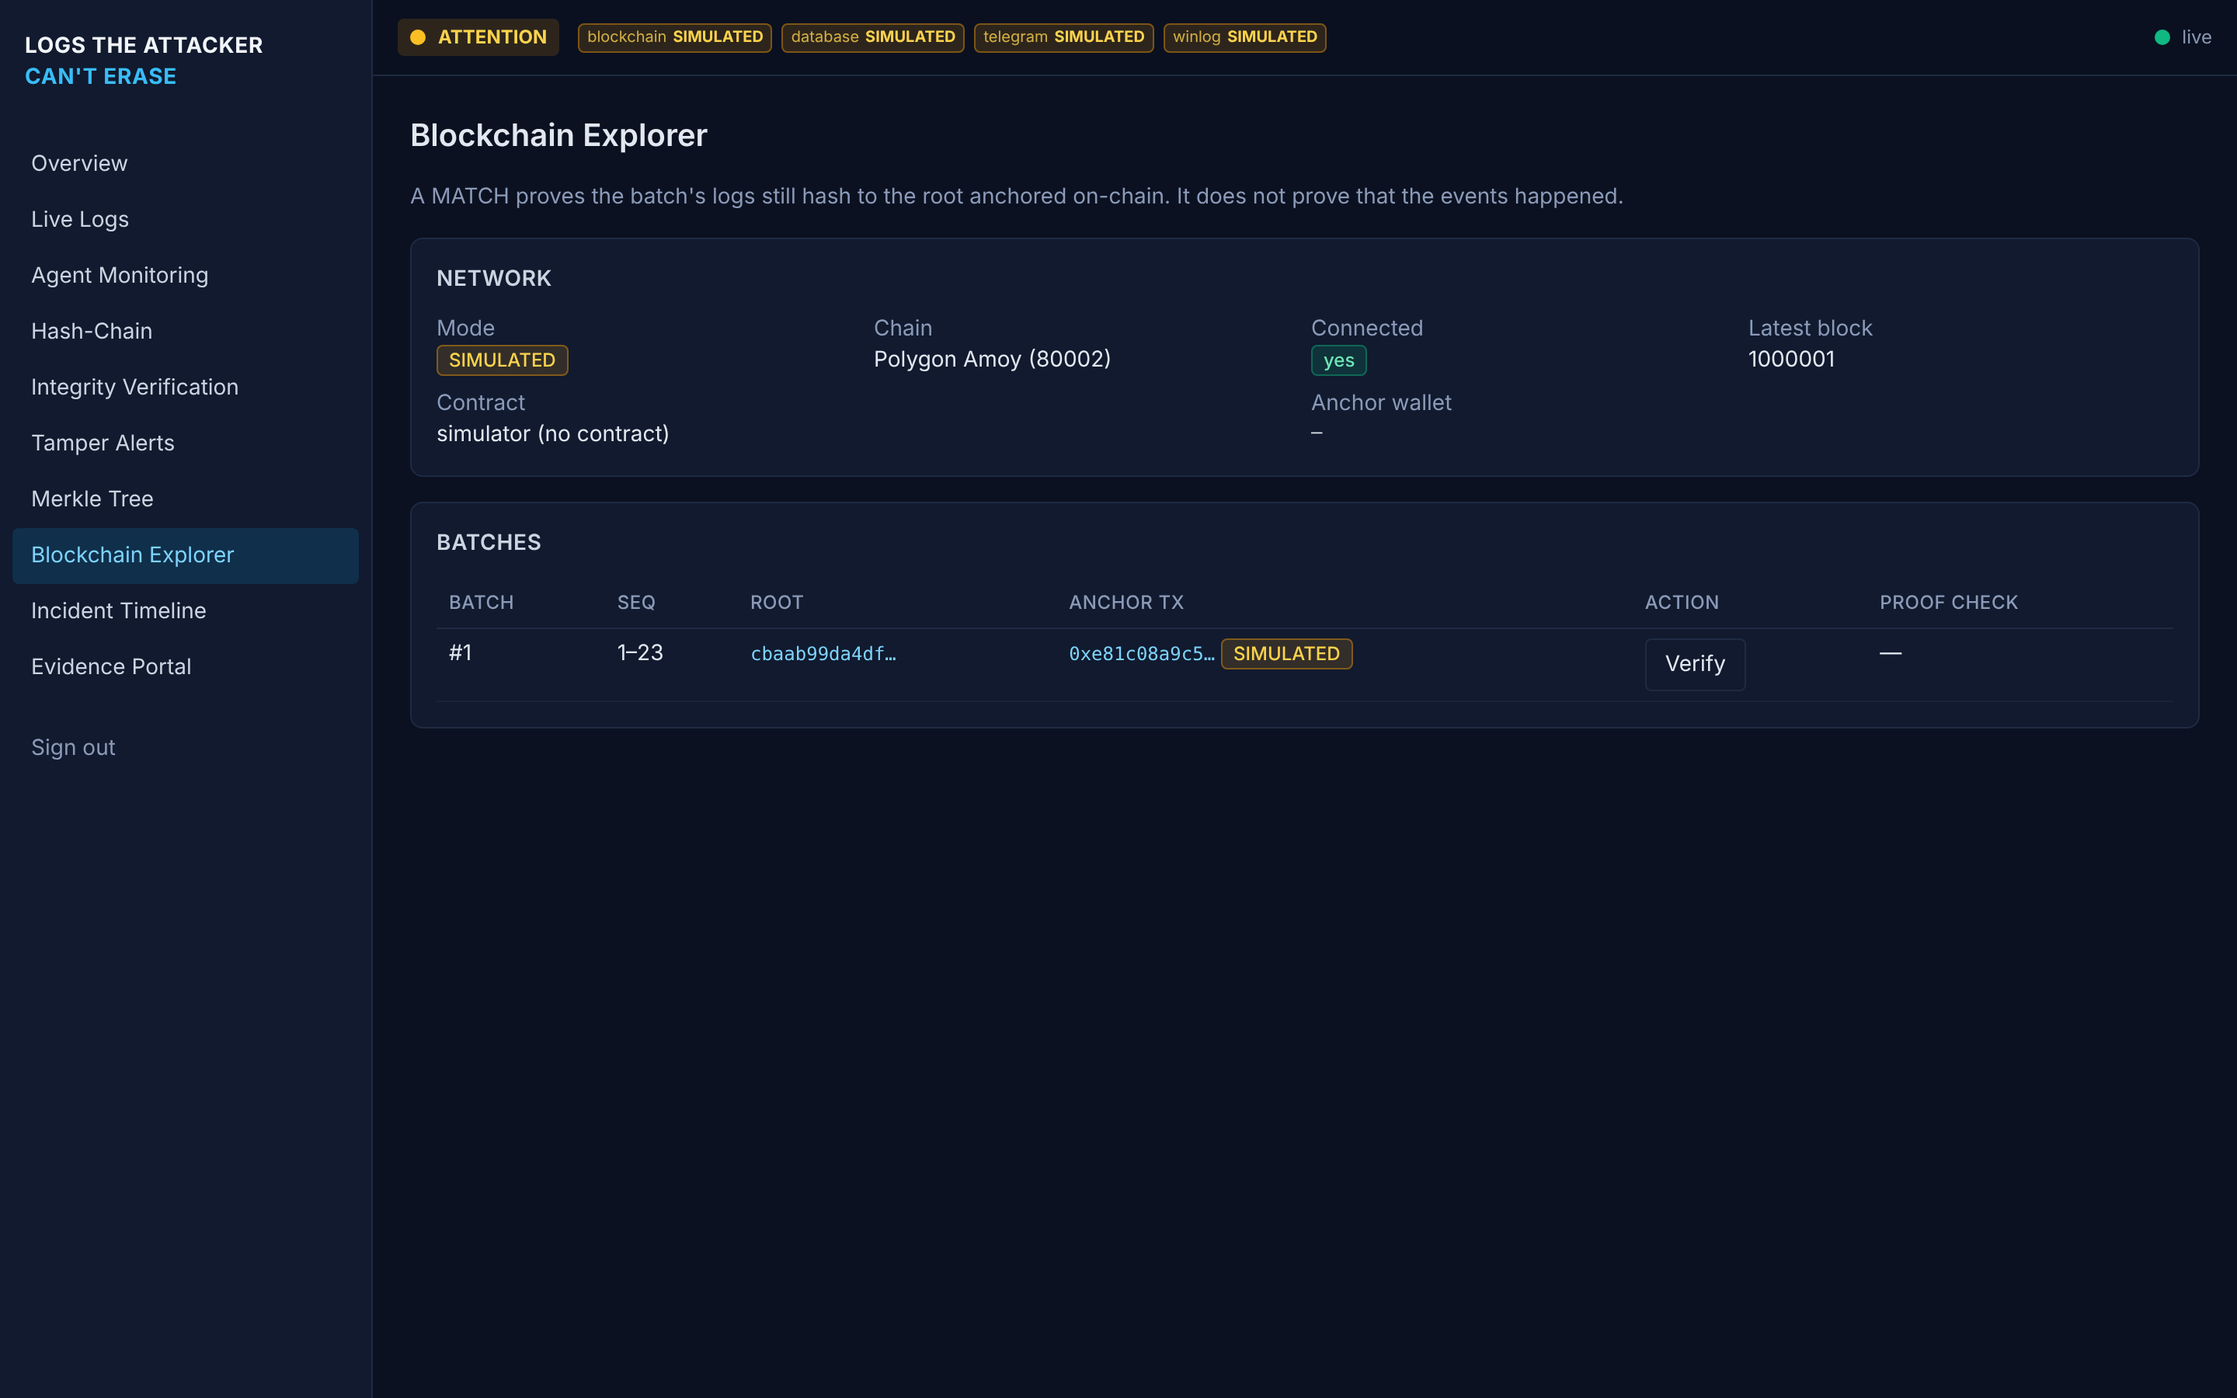
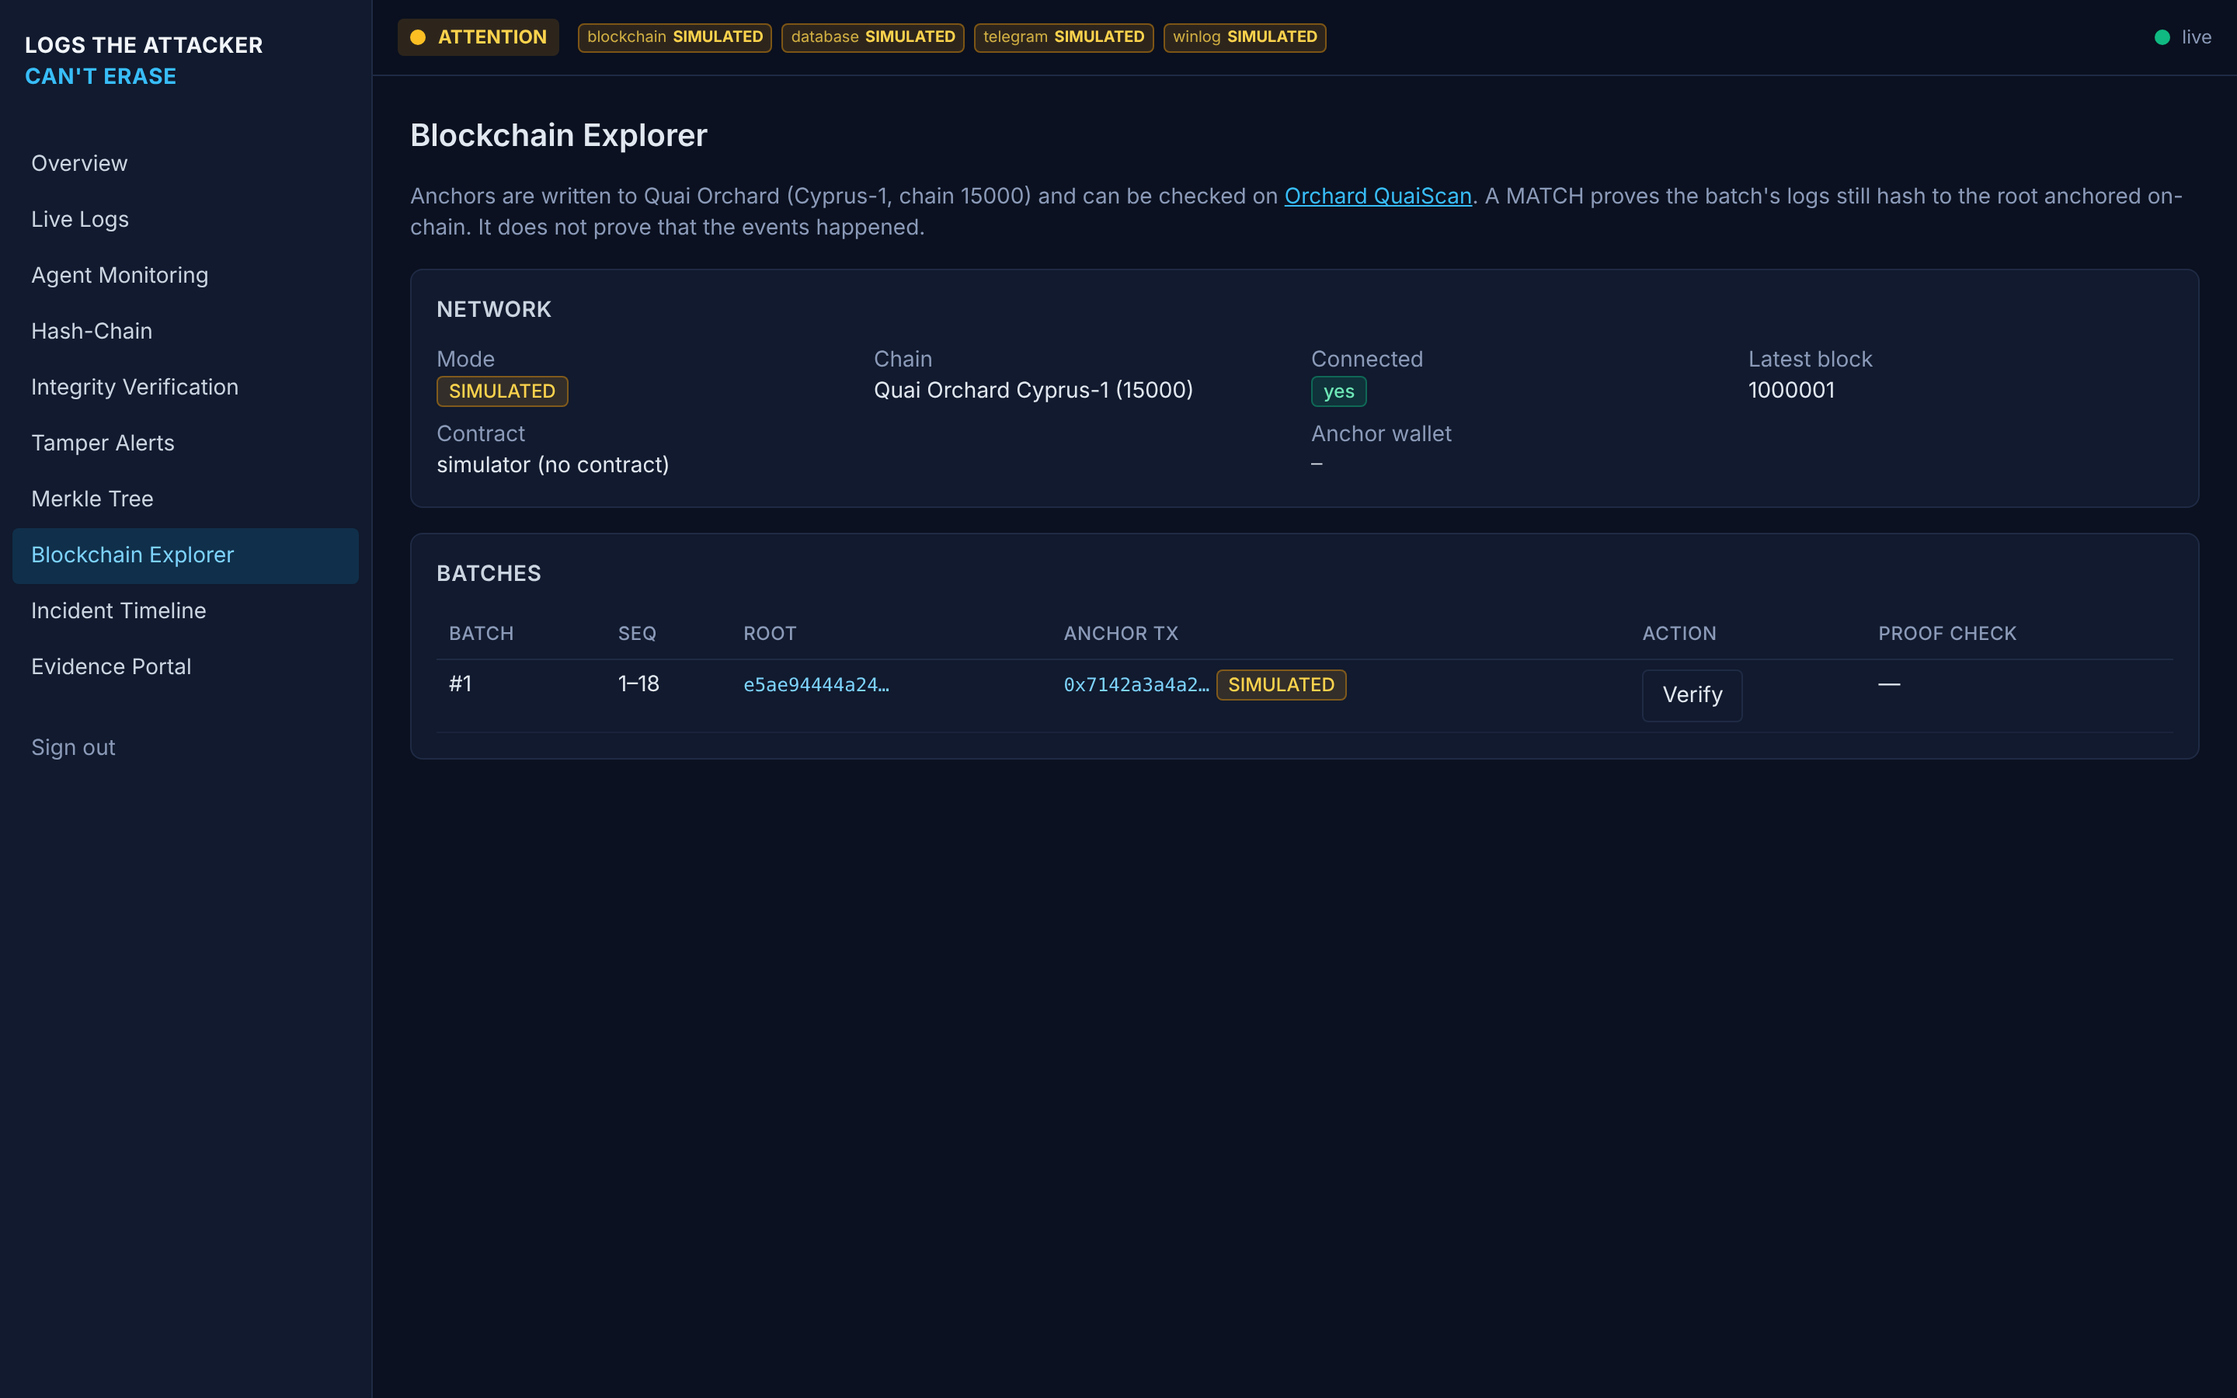
feat(quai step10): dashboard Quai labels, Orchard QuaiScan links, 'Quai Orchard (REAL)' badge
- src/lib/quai.ts: chain names, orchard.quaiscan.io / quaiscan.io tx + address links, badge label
- Blockchain/Overview/Evidence pages use them; no Polygon references remain
- fix: simulator-anchored batches are never linked to the explorer after switching to REAL mode
- screenshots refreshed (Polygon-era live-run set removed)

Claude-Session: https://claude.ai/code/session_015RNb6FucVTb6q4B85cYiCy

diff --git a/frontend/src/app/(dash)/blockchain/page.tsx b/frontend/src/app/(dash)/blockchain/page.tsx
@@ -5,8 +5,7 @@ import { post } from "@/lib/api";
 import { useApi, useLive } from "@/lib/hooks";
 import type { BlockchainStatus, MerkleBatchSummary, ProofVerify } from "@/lib/types";
 import { Card, Empty, ErrorState, Hash, Loading, Pill } from "@/components/ui";
-
-const AMOY = 80002;
+import { blockchainBadgeLabel, chainName, explorerAddress, explorerTx } from "@/lib/quai";
 
 export default function BlockchainPage() {
   const live = useLive();
@@ -16,22 +15,28 @@ export default function BlockchainPage() {
   const [busy, setBusy] = useState<number | null>(null);
   const [err, setErr] = useState<string | null>(null);
   const s = status.data;
-  const txLink = (tx: string | null) => (tx && s?.mode === "REAL" && s.chain_id === AMOY ? `https://amoy.polygonscan.com/tx/${tx}` : null);
+  // Explorer links only for anchors that were themselves REAL: a batch anchored earlier by the simulator keeps
+  // its fake tx hash even after switching to REAL mode, and must never be linked to the explorer.
+  const txLink = (tx: string | null, anchorMode: string | null) =>
+    (anchorMode === "REAL" && s ? explorerTx(s.chain_id, tx) : null);
 
   return (
     <div className="space-y-4">
       <h1 className="text-xl font-semibold">Blockchain Explorer</h1>
-      <p className="text-sm text-soc-muted">A MATCH proves the batch&apos;s logs still hash to the root anchored on-chain. It does not prove that the events happened.</p>
+      <p className="text-sm text-soc-muted">Anchors are written to Quai Orchard (Cyprus-1, chain 15000) and can be checked on{" "}
+        <a className="text-sky-400 underline" href="https://orchard.quaiscan.io" target="_blank" rel="noreferrer">Orchard QuaiScan</a>.
+        A MATCH proves the batch&apos;s logs still hash to the root anchored on-chain. It does not prove that the events happened.</p>
       {err && <ErrorState message={err} />}
       <Card title="Network">
         {status.error ? <ErrorState message={status.error} onRetry={status.reload} /> : !s ? <Loading /> : (
           <dl className="grid grid-cols-2 gap-2 text-sm sm:grid-cols-4">
-            <div><dt className="text-soc-muted">Mode</dt><dd><Pill value={s.mode} /></dd></div>
-            <div><dt className="text-soc-muted">Chain</dt><dd>{s.chain_id === AMOY ? "Polygon Amoy (80002)" : s.chain_id}</dd></div>
+            <div><dt className="text-soc-muted">Mode</dt><dd data-testid="chain-mode"><Pill value={s.mode} label={blockchainBadgeLabel(s.mode, s.chain_id)} /></dd></div>
+            <div><dt className="text-soc-muted">Chain</dt><dd data-testid="chain-name">{chainName(s.chain_id)}</dd></div>
             <div><dt className="text-soc-muted">Connected</dt><dd><Pill value={s.connected ? "online" : "offline"} label={s.connected ? "yes" : "no"} /></dd></div>
             <div><dt className="text-soc-muted">Latest block</dt><dd>{s.latest_block ?? "—"}</dd></div>
             <div className="col-span-2"><dt className="text-soc-muted">Contract</dt><dd>{s.contract_address ? (
-              s.chain_id === AMOY ? <a className="font-mono text-xs text-sky-400 underline" target="_blank" rel="noreferrer" href={`https://amoy.polygonscan.com/address/${s.contract_address}`}>{s.contract_address}</a>
+              explorerAddress(s.chain_id, s.contract_address)
+                ? <a className="font-mono text-xs text-sky-400 underline" target="_blank" rel="noreferrer" href={explorerAddress(s.chain_id, s.contract_address)!}>{s.contract_address} ↗</a>
                 : <code className="font-mono text-xs">{s.contract_address}</code>) : "simulator (no contract)"}</dd></div>
             <div className="col-span-2"><dt className="text-soc-muted">Anchor wallet</dt><dd className="font-mono text-xs">{s.anchor_wallet ?? "—"}</dd></div>
           </dl>
@@ -45,7 +50,7 @@ export default function BlockchainPage() {
               <thead><tr><th>Batch</th><th>Seq</th><th>Root</th><th>Anchor tx</th><th>Action</th><th>Proof check</th></tr></thead>
               <tbody>{batches.data.items.map((b) => {
                 const r = results[b.batch_id];
-                const link = txLink(b.tx_hash);
+                const link = txLink(b.tx_hash, b.mode);
                 return (
                   <tr key={b.batch_id}>
                     <td>#{b.batch_id}</td><td>{b.from_seq}–{b.to_seq}</td><td><Hash value={b.root} /></td>

diff --git a/frontend/src/app/(dash)/page.tsx b/frontend/src/app/(dash)/page.tsx
@@ -6,6 +6,7 @@ import { post } from "@/lib/api";
 import { useApi, useLive } from "@/lib/hooks";
 import type { Agent, BlockchainStatus, IntegrityStatus, Page, SecurityLog, VerifyResult } from "@/lib/types";
 import { Card, ErrorState, fmtTime, Hash, Loading, Pill, Stat } from "@/components/ui";
+import { blockchainBadgeLabel, chainName } from "@/lib/quai";
 
 export default function OverviewPage() {
   const live = useLive();
@@ -58,8 +59,8 @@ export default function OverviewPage() {
         <Card title="Blockchain anchoring">
           {chain.loading && !chain.data ? <Loading /> : chain.data && (
             <dl className="space-y-2 text-sm">
-              <div className="flex justify-between"><dt className="text-soc-muted">Mode</dt><dd><Pill value={chain.data.mode} /></dd></div>
-              <div className="flex justify-between"><dt className="text-soc-muted">Chain ID</dt><dd>{chain.data.chain_id}</dd></div>
+              <div className="flex justify-between"><dt className="text-soc-muted">Mode</dt><dd><Pill value={chain.data.mode} label={blockchainBadgeLabel(chain.data.mode, chain.data.chain_id)} /></dd></div>
+              <div className="flex justify-between"><dt className="text-soc-muted">Network</dt><dd>{chainName(chain.data.chain_id)}</dd></div>
               <div className="flex justify-between"><dt className="text-soc-muted">Connected</dt><dd><Pill value={chain.data.connected ? "online" : "offline"} label={chain.data.connected ? "yes" : "no"} /></dd></div>
               <div className="flex justify-between"><dt className="text-soc-muted">Last anchor tx</dt><dd><Hash value={chain.data.last_anchor?.tx_hash} /></dd></div>
               <p className="pt-2 text-xs text-soc-muted">Anchoring proves a batch root is unchanged since anchoring. It does not prove events happened.</p>

diff --git a/frontend/src/lib/quai.ts b/frontend/src/lib/quai.ts
@@ -1,0 +1,30 @@
+// Quai network names and Orchard/mainnet QuaiScan explorer links (no key needed).
+export const QUAI_ORCHARD = 15000;
+export const QUAI_MAINNET = 9;
+
+const EXPLORERS: Record<number, string> = {
+  [QUAI_ORCHARD]: "https://orchard.quaiscan.io",
+  [QUAI_MAINNET]: "https://quaiscan.io",
+};
+
+export function chainName(chainId: number | null | undefined): string {
+  if (chainId === QUAI_ORCHARD) return "Quai Orchard Cyprus-1 (15000)";
+  if (chainId === QUAI_MAINNET) return "Quai Mainnet Cyprus-1 (9)";
+  return chainId == null ? "—" : `chain ${chainId}`;
+}
+
+export function explorerTx(chainId: number | null | undefined, tx: string | null | undefined): string | null {
+  const base = chainId != null ? EXPLORERS[chainId] : undefined;
+  return base && tx ? `${base}/tx/${tx}` : null;
+}
+
+export function explorerAddress(chainId: number | null | undefined, addr: string | null | undefined): string | null {
+  const base = chainId != null ? EXPLORERS[chainId] : undefined;
+  return base && addr ? `${base}/address/${addr}` : null;
+}
+
+/** Header badge text for the blockchain integration, as required: "Quai Orchard (REAL)" or "SIMULATED". */
+export function blockchainBadgeLabel(mode: "REAL" | "SIMULATED", chainId?: number | null): string {
+  if (mode !== "REAL") return "SIMULATED";
+  return chainId === QUAI_MAINNET ? "Quai Mainnet (REAL)" : "Quai Orchard (REAL)";
+}

diff --git a/frontend/src/app/(dash)/evidence/page.tsx b/frontend/src/app/(dash)/evidence/page.tsx
@@ -60,7 +60,10 @@ export default function EvidencePage() {
             <div className="space-y-3 text-sm">
               <div className="flex flex-wrap items-center gap-2">Verification: <Pill value={bundle.verification.result} />
                 Anchor: {bundle.anchor ? <Pill value={bundle.anchor.mode} /> : <Pill value="NOT_ANCHORED" label="not anchored" />}
-                <span className="text-soc-muted">{bundle.logs.length} logs</span></div>
+                <span className="text-soc-muted">{bundle.logs.length} logs</span>
+                {bundle.anchor?.explorer_url && (
+                  <a data-testid="evidence-explorer" className="text-sky-400 underline" href={bundle.anchor.explorer_url} target="_blank" rel="noreferrer">
+                    View on Orchard QuaiScan ↗</a>)}</div>
               <p className="rounded border border-amber-500/30 bg-amber-500/10 p-2 text-xs text-amber-200">{bundle.disclaimer}</p>
               <pre className="max-h-96 overflow-auto rounded bg-black/40 p-3 font-mono text-[11px] text-slate-300">{JSON.stringify(bundle, null, 2).slice(0, 6000)}</pre>
             </div>

diff --git a/frontend/src/components/Shell.tsx b/frontend/src/components/Shell.tsx
@@ -6,6 +6,7 @@ import { useEffect, useState } from "react";
 import { getToken, setToken, USE_MOCK } from "@/lib/api";
 import { useApi, useLive } from "@/lib/hooks";
 import type { Health, IntegrityStatus } from "@/lib/types";
+import { blockchainBadgeLabel } from "@/lib/quai";
 import { ModeBadge, StatusDot } from "./ui";
 
 export const NAV = [
@@ -73,7 +74,8 @@ export function Shell({ children }: { children: React.ReactNode }) {
           </div>
           <div className="flex flex-wrap gap-1.5">
             {health.data && Object.entries(health.data.integrations).map(([k, v]) => (
-              <ModeBadge key={k} name={k.replace("windows_event_log", "winlog")} mode={v} />
+              <ModeBadge key={k} name={k.replace("windows_event_log", "winlog")} mode={v}
+                label={k === "blockchain" ? blockchainBadgeLabel(v) : undefined} />
             ))}
             {USE_MOCK && <span className="rounded bg-fuchsia-500/20 px-1.5 py-0.5 text-[10px] font-bold text-fuchsia-300">MOCK DATA</span>}
           </div>

diff --git a/frontend/src/lib/mock.ts b/frontend/src/lib/mock.ts
@@ -110,7 +110,7 @@ export async function mockRequest<T>(path: string, init: RequestInit): Promise<T
   const pr = p.match(/^\/api\/merkle\/(\d+)\/proof\/(\d+)$/);
   if (pr) return out({ batch_id: Number(pr[1]), seq_id: Number(pr[2]), leaf: h(9), leaf_index: 0,
     proof: [{ position: "right", hash: h(10) }, { position: "left", hash: h(11) }], root: h(100) });
-  if (p === "/api/blockchain/status") return out({ mode: "SIMULATED", chain_id: 80002, connected: true, contract_address: null,
+  if (p === "/api/blockchain/status") return out({ mode: "SIMULATED", chain_id: 15000, connected: true, contract_address: null,
     anchor_wallet: null, latest_block: 1000002, anchored_batches: 2,
     last_anchor: { batch_id: 2, tx_hash: "0x" + h(201), block_number: 1000002, explorer_url: null } } satisfies BlockchainStatus);
   if (p === "/api/proof/verify") return out({ batch_id: 1, result: tampered ? "MISMATCH" : "MATCH", local_root: h(100),

diff --git a/frontend/src/components/ui.tsx b/frontend/src/components/ui.tsx
@@ -56,12 +56,12 @@ export function Pill({ value, label }: { value: string; label?: ReactNode }) {
   );
 }
 
-export function ModeBadge({ name, mode }: { name: string; mode: "REAL" | "SIMULATED" }) {
+export function ModeBadge({ name, mode, label }: { name: string; mode: "REAL" | "SIMULATED"; label?: string }) {
   return (
-    <span title={`${name}: ${mode}`} data-testid={`badge-${name}`}
+    <span title={`${name}: ${label ?? mode}`} data-testid={`badge-${name}`} data-mode={mode}
       className={`inline-flex items-center gap-1 rounded px-1.5 py-0.5 text-[10px] font-bold ring-1 ring-inset ${
         mode === "REAL" ? PILL.green : PILL.yellow}`}>
-      <span className="font-normal opacity-80">{name}</span> {mode}
+      <span className="font-normal opacity-80">{name}</span> {label ?? mode}
     </span>
   );
 }

diff --git a/PROJECT_STATE.md b/PROJECT_STATE.md
@@ -12,8 +12,8 @@ Tamper-evident security logging: SHA-256 hash chains, Merkle trees, and blockcha
 
 | Field | Value |
 |---|---|
-| Current step | Quai rebuild — Step 9 (Evidence reports) complete; Step 8 REAL mode still waits for keys + "approve" |
-| Next step | Step 10 — Frontend (Quai labels, Orchard QuaiScan links, "Quai Orchard (REAL)" badge) |
+| Current step | Quai rebuild — Step 10 (Frontend) complete; Step 8 REAL mode still waits for keys + "approve" |
+| Next step | Step 11 — End-to-end tests |
 | Python | 3.12 (venv at `.venv`) · Node.js LTS (quai-service, Hardhat, frontend) |
 | Default mode | `MODE=simulator` (every integration falls back to a simulator when its key is empty) |
 | Build host | Linux cloud container (target platform: Windows 11 / PowerShell) |
@@ -30,7 +30,7 @@ Tamper-evident security logging: SHA-256 hash chains, Merkle trees, and blockcha
 - [x] **Step 7** Merkle tree (root, inclusion proofs, merkle_batches)
 - [~] **Step 8** Blockchain on Quai Orchard — simulator PASS; REAL deploy/anchor not yet run — (Solidity 0.8.20 `anchorRoot`, Hardhat `cyprus1`, Node.js quais service `/anchor` `/status`, simulator; **no broadcast until operator replies "approve"**)
 - [x] **Step 9** Evidence reports (JSON bundle + PDF certificate with disclaimer, Orchard QuaiScan links)
-- [ ] **Step 10** Frontend (SOC dashboard, "Quai Orchard (REAL)" / "SIMULATED" badges)
+- [x] **Step 10** Frontend (SOC dashboard, "Quai Orchard (REAL)" / "SIMULATED" badges)
 - [ ] **Step 11** End-to-end tests (6 scenarios)
 - [ ] **Step 12** Docs and launch (start.ps1 launches backend, agent, quai-service, frontend; deployment evidence table)
 
@@ -535,3 +535,4 @@ quais-only signing, offline metadata CID instead of IPFS, RPC pathing, Prime vs 
 | 2026-11-20 | Q7 | Merkle tree re-verified (hand-computed 4- and 3-leaf roots, odd counts 1/3/5, one-byte leaf/sibling change fails, endpoints + merkle_batches storage). Code unchanged since f3ff95e. |
 | 2026-11-20 | Q8 | Quai Step 8 (simulator): LogAnchor 0.8.20/london (0 PUSH0), Hardhat cyprus1 config, quais deploy script (dry run default, --broadcast flag, zone + chain guards, offline metadata CID), Node quai-service (/status, /anchor, /anchor/:id[/tx], broadcast gate), Python QuaiServiceAnchorer, web3.py removed (lock 66 -> 36 packages), Orchard QuaiScan links. Live read-only checks against the real Orchard RPC. Network allowlist environment `silent` created (docs.qu.ai, orchard.rpc.quai.network, orchard.quaiscan.io). |
 | 2026-11-20 | Q9 | Evidence bundle/PDF: Quai network name, Orchard QuaiScan tx + contract links, explorer_status (source not verified, no IPFS), Quai on-chain check instructions; PolygonScan wording removed. Re-verified live (downloads, fields, standalone offline verify VALID/INVALID, PDF disclaimer). |
+| 2026-11-20 | Q10 | Dashboard: Quai network names, Orchard QuaiScan tx/contract links (`src/lib/quai.ts`), header badge "Quai Orchard (REAL)" / "SIMULATED", evidence explorer link; 0 Polygon references. Bug fixed: a simulator-anchored batch was linked to QuaiScan after switching to REAL mode (now linked only when the anchor itself was REAL). Build/lint/tsc clean, 10 pages 0 console errors, tamper -> red, API error state, mock mode. CLAUDE.md added. |
